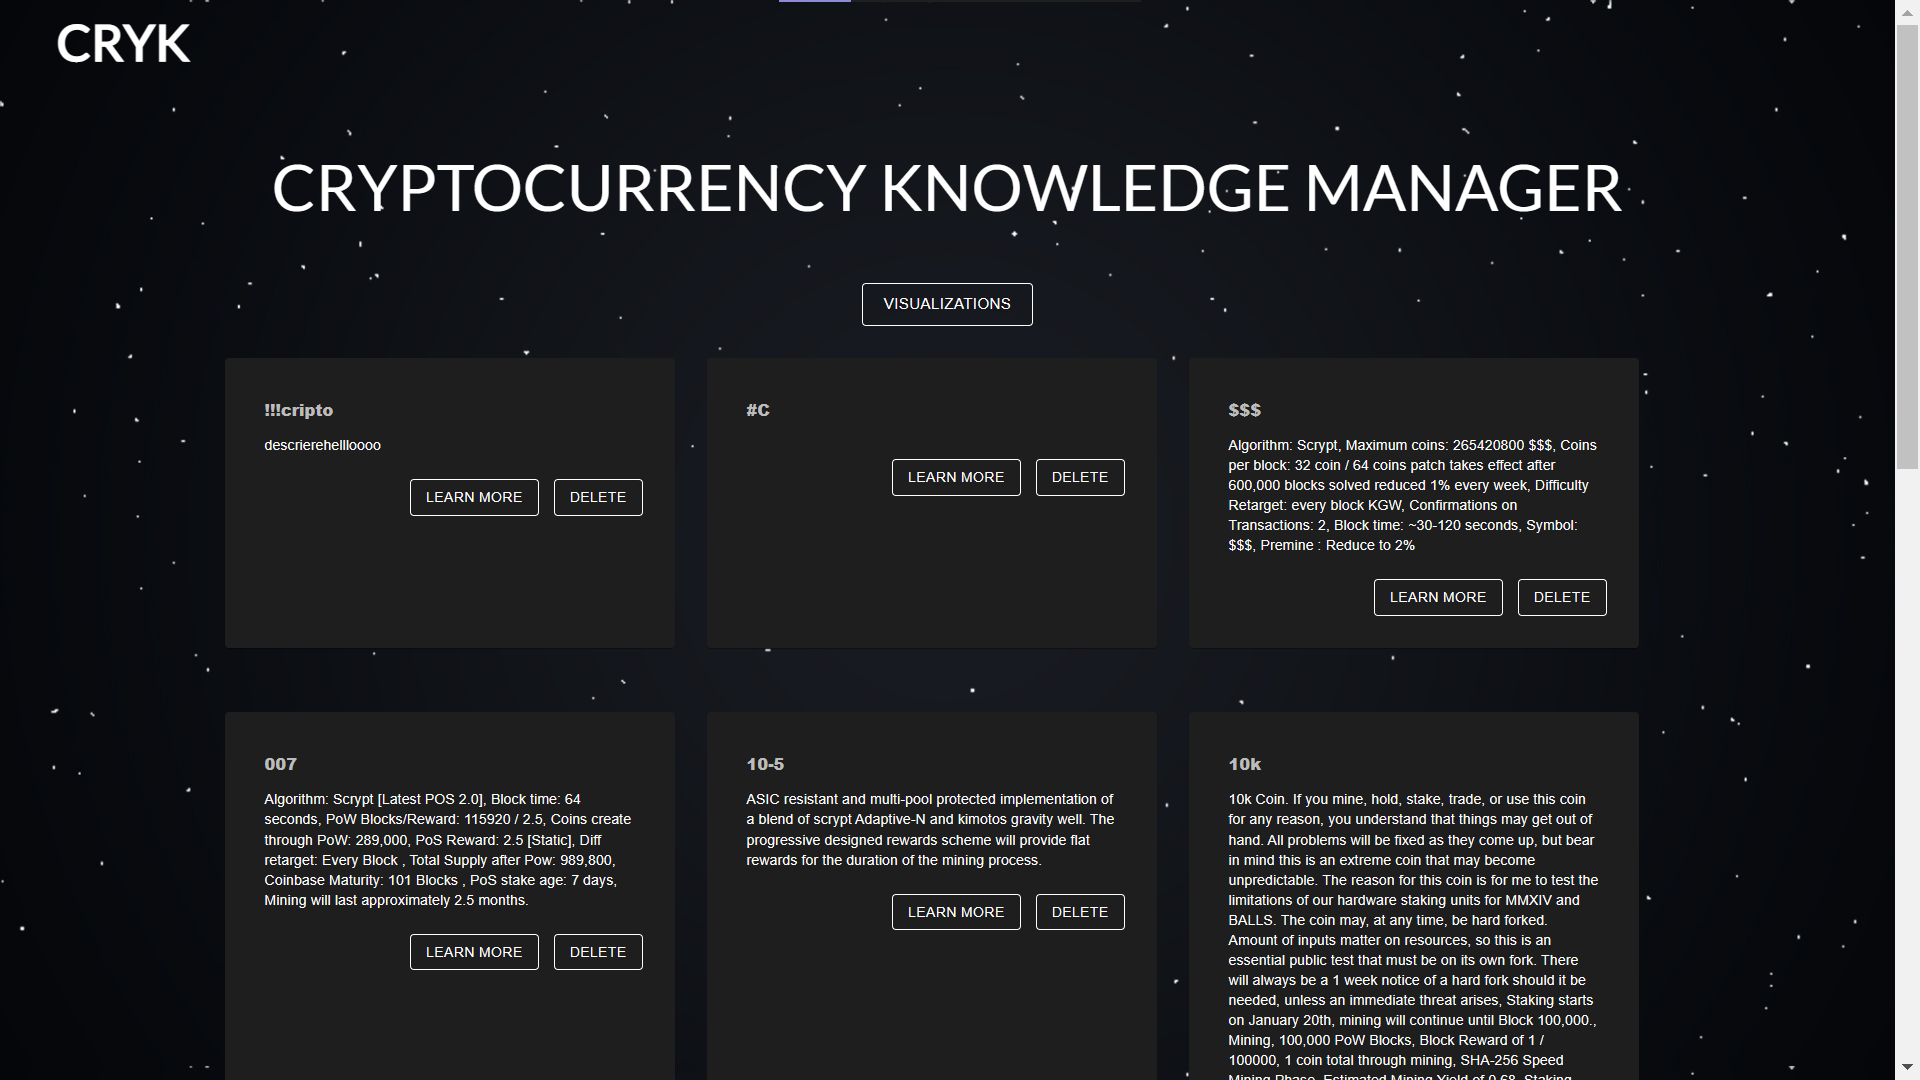
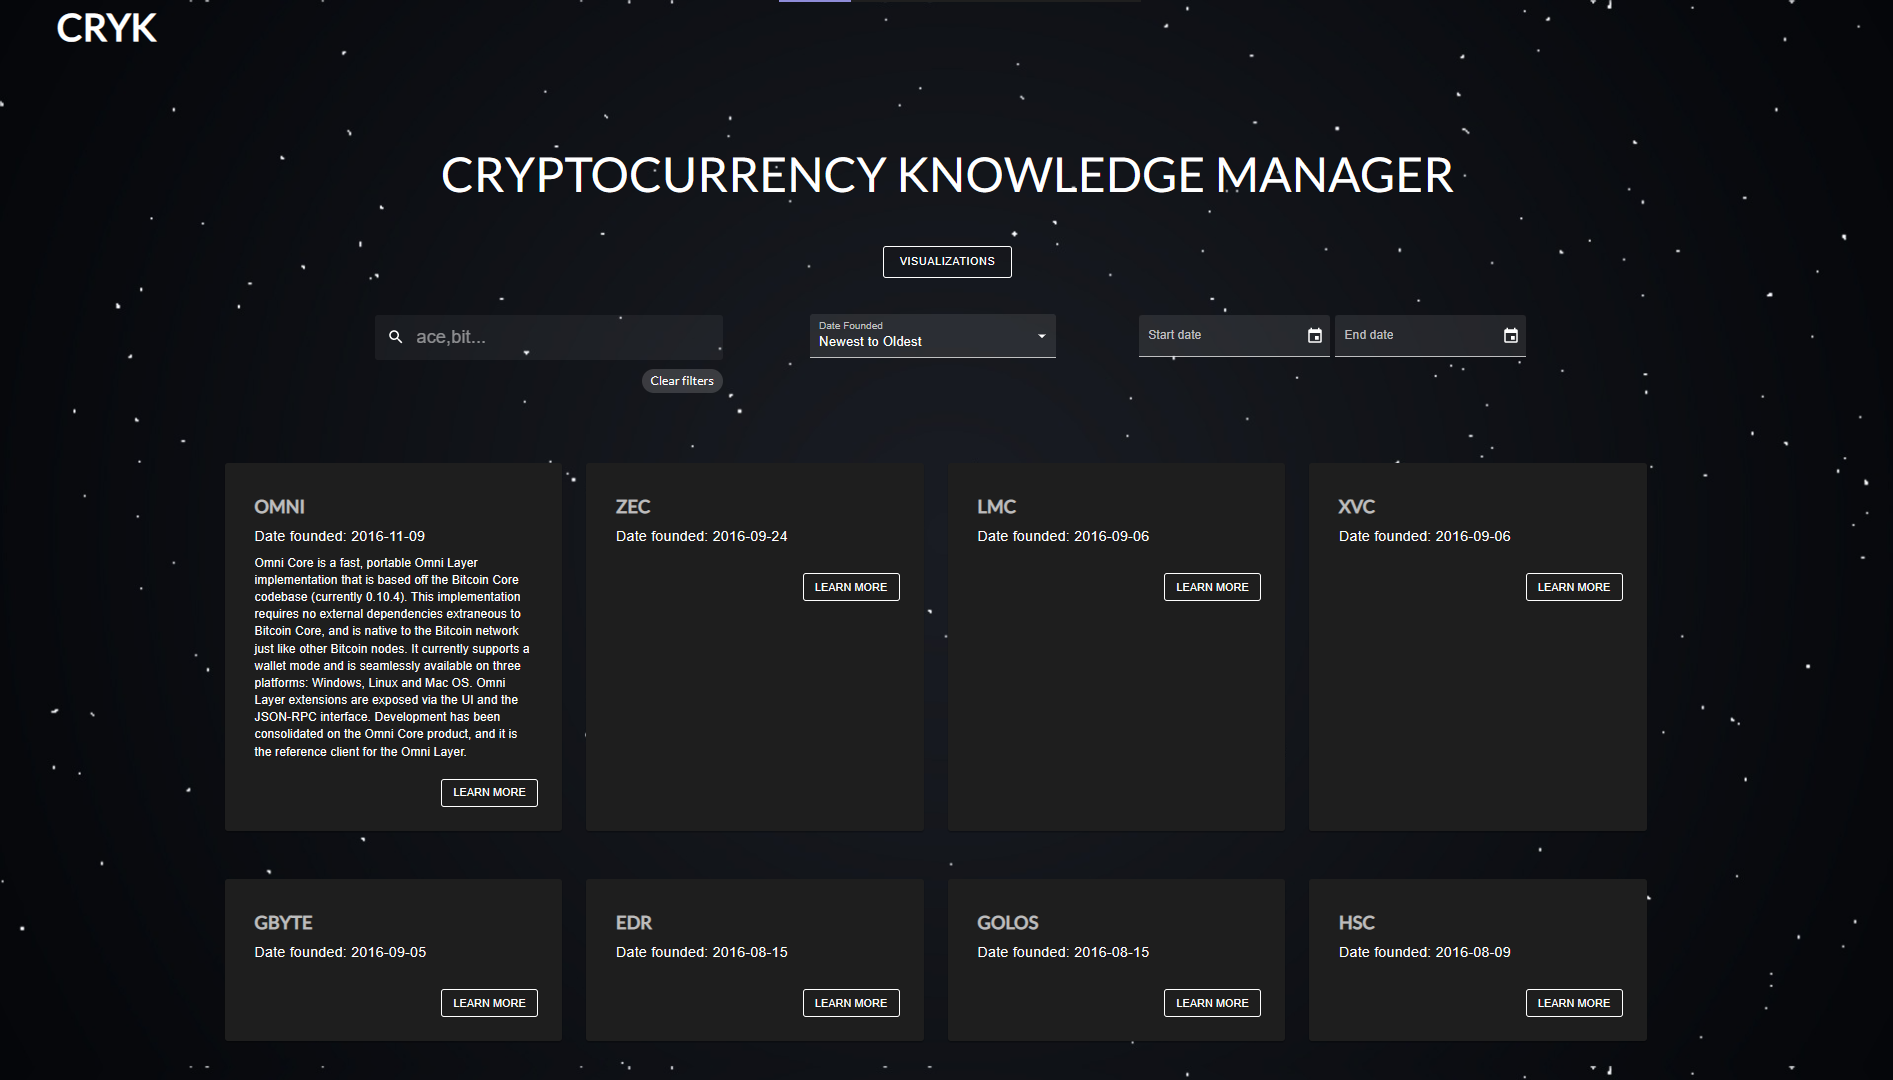
Diana/technical report v2 (#39)
* Update user guide

* Update contribution in technical report

* Add fix

* Update link to demo

* Add fix

* Add fix

diff --git a/technical_report/cryk_technical_report.html b/technical_report/cryk_technical_report.html
@@ -126,7 +126,7 @@
                     <li class="nested"><a href="#UserGuide">User guide of the developed solution</a></li>
                     <li class="nested"><a href="#Video">Video Demonstration</a></li>
                     <li class="nested"><a href="#Conclusions">Conclusions</a></li>
-                    <li class="nested appendix-li"><a href="#Appendix">Appendix 1 - Task Distribution</a></li>
+                    <li class="nested appendix-li"><a href="#Appendix-1">Appendix 1 - Task Distribution</a></li>
                     <li class="nested"><a href="#References">References</a></li>
                 </ol>
             </section>
@@ -731,8 +731,7 @@
             <section role="doc-part">
                 <h2 id="Video">11 Video Demonstration</h2>
                 <div>
-                    <iframe width="560" height="315" src="https://www.youtube.com/embed/pmf_N8g0-Bo" title="YouTube video player" frameborder="0" allow="accelerometer; autoplay; clipboard-write; encrypted-media; gyroscope; picture-in-picture; web-share" allowfullscreen>
-                    </iframe>
+                    <iframe width="560" height="315" src="https://www.youtube.com/embed/2B0OB0VQJNo" title="YouTube video player" frameborder="0" allow="accelerometer; autoplay; clipboard-write; encrypted-media; gyroscope; picture-in-picture; web-share" allowfullscreen></iframe>
                 </div>
             </section>
             <section role="doc-conclusion">
@@ -765,7 +764,7 @@
                             </li>
                             <li><i>news-service</i>
                                 <ul>
-                                    <li>Implemented get news by cryptocurrency id query</li>
+                                    <li>Implemented get news by cryptocurrency id query, with ordering by date of publishing (<i>publishedAt</i> property)</li>
                                     <li>Implemented get news by id query (not exported in the schema, but used by mutations)
                                     </li>
                                     <li>Implemented create news mutation</li>
@@ -776,9 +775,10 @@
                             </li>
                             <li><i>cryk-ui</i>
                                 <ul>
-                                    <li>Implemented fetching and pagination of news in cryptocurrency details pag</li>
+                                    <li>Implemented fetching and pagination of news in cryptocurrency details page</li>
                                     <li>Created components for handling news service mutations</li>
                                     <li>Implemented input validation for create and update news mutations</li>
+                                    <li>Added sanitization for <i>title</i> and <i>body</i> fields when creating/updating a news card</li>
                                 </ul>
                             </li>
                             <li>Technical report
@@ -814,11 +814,15 @@
                                     <li>Created components for handling cryptocurrency service mutations</li>
                                     <li>Implemented input validation for create and update cryptocurrency mutations</li>
                                     <li>Integrated delete cryptocurrency mutation in cryptocurrency card</li>
+                                    <li>Implemented searching on <i>symbol</i> field for the Cryptocurrencies page</li>
+                                    <li>Implemented sorting on <i>dateFounded</i> field for the Cryptocurrencies page</li>
+                                    <li>Implemented date range filtering on <i>dateFounded</i> field for the Cryptocurrencies page</li>
                                 </ul>
                             </li>
                             <li><i>cryptocurrencies-service</i>
                                 <ul>
                                     <li>Implemented get cryptocurrencies information query</li>
+                                    <li>Updated the queries for the searching and filtering options</li>
                                 </ul>
                             </li>
                             <li>Technical report
@@ -864,6 +868,7 @@
                                             <li>Line Chart that includes a timeline with the number of coins founded over time</li>
                                             <li>Bar Chart containing the total number of coins for each cryptocurrency on the current page</li>
                                             <li>Bar Chart containing the block time for each cryptocurrency on the current page</li>
+                                            <li>Area Chart containing the historical prices of a cryptocurrency as well as the results of a DCA investment for that cryptocurrency</li>
                                         </ul>
                                     </li>
                                     <li>Authentication</li>

diff --git a/technical_report/user_guide/user_guide.html b/technical_report/user_guide/user_guide.html
@@ -69,6 +69,7 @@
                                     <li class="nested"><a href="#ExportCrypto">Export a Cryptocurrency in JSON-LD
                                             Format</a>
                                     </li>
+                                    <li class="nested"><a href="#DCAChart">Access the DCA Chart</a></li>
                                     <li class="nested"><a href="#CryptoCharts">View the Charts for the Cryptocurrencies
                                             from
                                             the Current Page</a></li>
@@ -103,7 +104,7 @@
                 </div>
             </section>
             <section role="doc-part">
-                <h2 id="Introduction">2 Getting Started</h2>
+                <h2 id="GettingStarted">2 Getting Started</h2>
                 <div>
                     <section>
                         <h3 id="Access">2.1 Access the application</h3>
@@ -131,7 +132,7 @@
                 </div>
             </section>
             <section role="doc-part">
-                <h2 id="Introduction">3 User roles</h2>
+                <h2 id="Roles">3 User roles</h2>
                 <div>
                     <p>
                         There are two types of user in this application: the unauthenticated user and the administrator.
@@ -144,6 +145,7 @@
                             <li>export the cryptocurrencyin JSON-LD format</li>
                             <li>view the news regarding the cryptocurrency</li>
                             <li>access the page with the visualizations</li>
+                            <li>access the page with the DCA Chart</li>
                         </ul>
                         <p>
                             The administrator can do the following actions, in addition to those that the unauthenticated user can do:
@@ -179,12 +181,18 @@
                             <img class="use-case-3" src="https://raw.githubusercontent.com/DianaCrainic/WADe_Project/main/technical_report/user_guide/images/use-case-3/4.png" alt="Crypto created">
                         </section>
                         <section>
-                            <h3 id="CryptoCharts">4.1.2 View the Charts for the Cryptocurrencies from the Current Page</h3>
+                            <h3 id="DCAChart">4.1.2 Access the DCA Chart</h3>
+                            <p>Both the the unauthenticated user and the administrator can access the DCA Chart from the Cryptocurrency Information page containing an area chart with multiple options for inputs like the amount to invest and the period in which you want to invest. The chart is updating in real time. The DCA is an investment strategy in which the intention is to minimize the impact of volatility when investing or purchasing a large block of a financial asset or instrument.
+                            </p>
+                            <img class="use-case-7" src="https://raw.githubusercontent.com/DianaCrainic/WADe_Project/main/technical_report/user_guide/images/use-case-7/1.png" alt="DCA">
+                        </section>
+                        <section>
+                            <h3 id="CryptoCharts">4.1.3 View the Charts for the Cryptocurrencies from the Current Page</h3>
                             <p>Both the the unauthenticated user and the administrator can view the Charts for the Cryptocurrencies from the Current Page:</p>
                             <img class="use-case-5" src="https://raw.githubusercontent.com/DianaCrainic/WADe_Project/main/technical_report/user_guide/images/use-case-5/1.png" alt="Crypto charts">
                         </section>
                         <section>
-                            <h3 id="Visualizations">4.1.3 Access the Visualizations page</h3>
+                            <h3 id="Visualizations">4.1.4 Access the Visualizations page</h3>
                             <p>Both the the unauthenticated user and the administrator can access the Visualizations page containing the pie chart for the <b>Number of cryptocurrencies
                                     by protection scheme</b> and the time series charts for the <b>Number of
                                     cryptocurrencies
